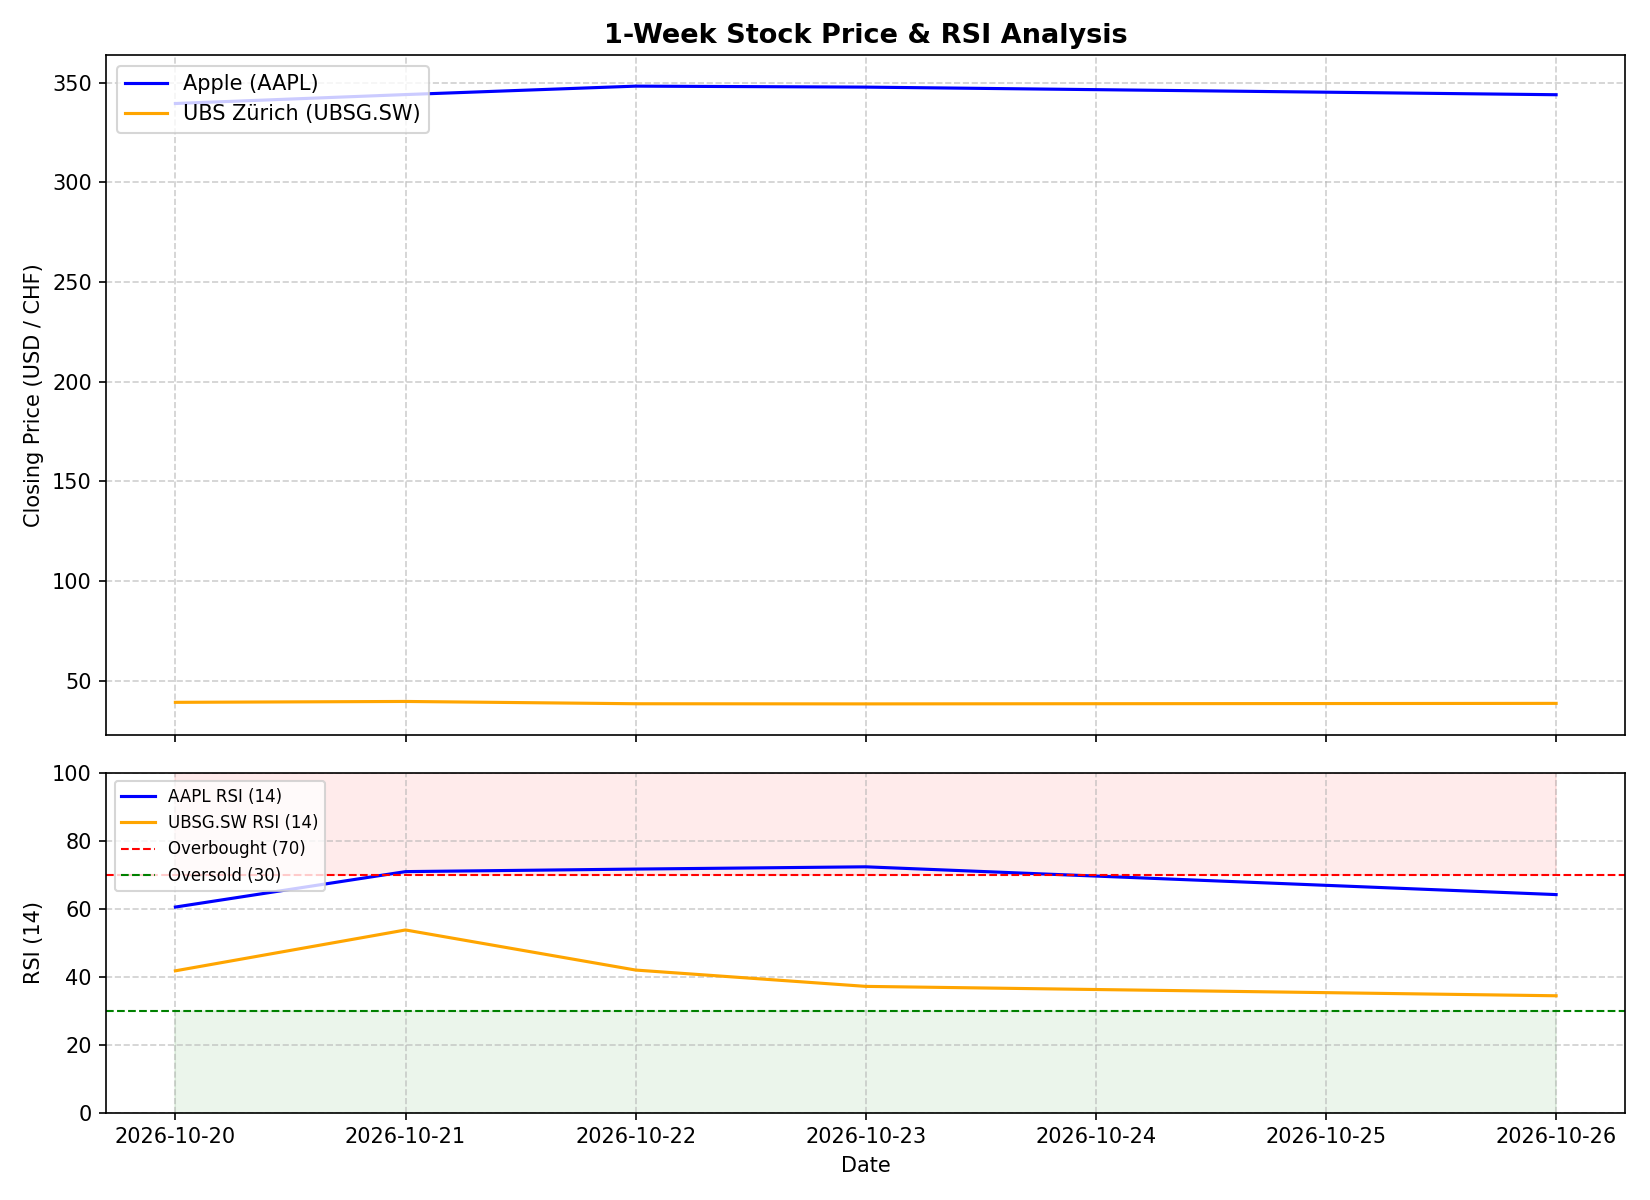
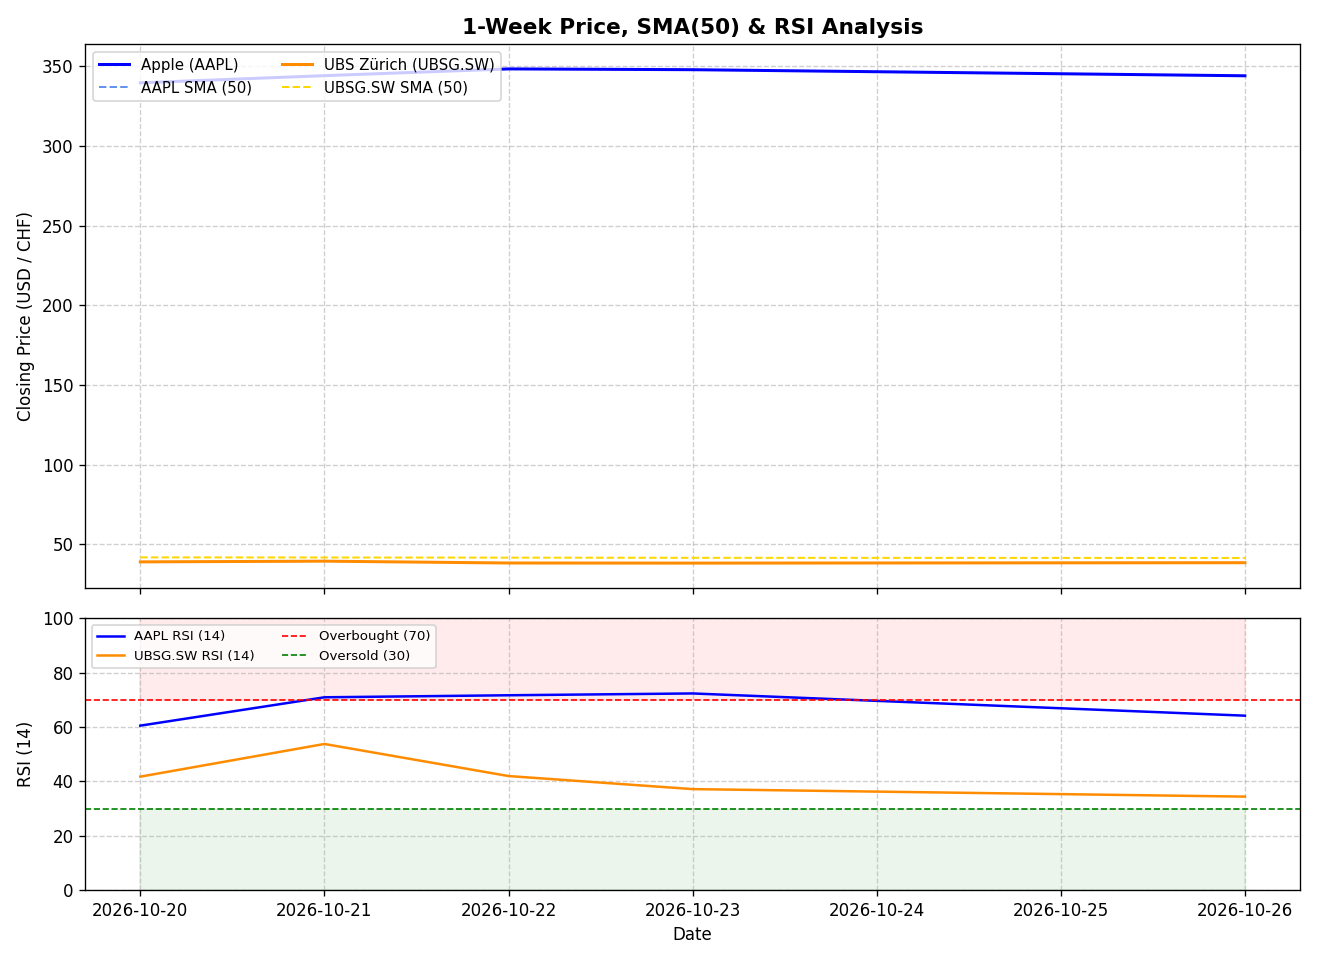
Add SMA(50), Max Drawdown, and fix full 1-year RSI window

diff --git a/main.py b/main.py
@@ -4,10 +4,10 @@ import pandas as pd
 import yfinance as yf
 import matplotlib.pyplot as plt
 
-# 1. Fetch stock data
+# 1. Fetch 2 years of stock data (so 1-year charts have full 200-day SMA & RSI from day 1)
 tickers = ["UBSG.SW", "AAPL"]
 print("Downloading financial data from Yahoo Finance...")
-data = yf.download(tickers, period="1y", interval="1d")['Close']
+data = yf.download(tickers, period="2y", interval="1d")['Close']
 
 # 2. Save raw prices to SQLite database
 conn = sqlite3.connect("stock_data.db")
@@ -20,49 +20,77 @@ df = pd.read_sql("SELECT * FROM stock_prices", conn, parse_dates=["Date"])
 conn.close()
 df.set_index("Date", inplace=True)
 
-# 4. Calculate 14-Day RSI (Relative Strength Index)
+# 4. Calculate Quantitative Metrics (RSI, SMA 50, SMA 200, Volatility, Max Drawdown)
 def calculate_rsi(series, period=14):
     delta = series.diff()
     gain = delta.where(delta > 0, 0.0)
     loss = -delta.where(delta < 0, 0.0)
-    
     avg_gain = gain.rolling(window=period, min_periods=period).mean()
     avg_loss = loss.rolling(window=period, min_periods=period).mean()
-    
     rs = avg_gain / avg_loss
-    rsi = 100.0 - (100.0 / (1.0 + rs))
-    return rsi
+    return 100.0 - (100.0 / (1.0 + rs))
+
+def calculate_max_drawdown(series):
+    rolling_max = series.cummax()
+    drawdown = (series - rolling_max) / rolling_max * 100.0
+    return drawdown.min()
 
 rsi_df = pd.DataFrame(index=df.index)
+sma50_df = pd.DataFrame(index=df.index)
+sma200_df = pd.DataFrame(index=df.index)
+
 for ticker in tickers:
     rsi_df[ticker] = calculate_rsi(df[ticker])
+    sma50_df[ticker] = df[ticker].rolling(window=50).mean()
+    sma200_df[ticker] = df[ticker].rolling(window=200).mean()
 
-# Save RSI values to SQLite database
+# Filter last 1 year (252 trading days) for analysis and reporting
+df_1y = df.tail(252)
+rsi_1y = rsi_df.tail(252)
+sma50_1y = sma50_df.tail(252)
+
+# Calculate Risk Metrics over the last 1 year
+returns_1y = df_1y.pct_change().dropna() * 100
+volatility = returns_1y.std() * (252 ** 0.5)
+max_dd = {ticker: calculate_max_drawdown(df_1y[ticker]) for ticker in tickers}
+
+risk_summary = pd.DataFrame({
+    "Annualized Volatility (%)": volatility,
+    "Max Drawdown (%)": pd.Series(max_dd),
+    "Latest RSI (14)": rsi_1y.iloc[-1]
+})
+
+print("\n=== QUANTITATIVE RISK & MOMENTUM SUMMARY (1-YEAR) ===")
+print(risk_summary.round(2))
+
+# Save RSI and Risk Summary to SQLite database
 conn = sqlite3.connect("stock_data.db")
-rsi_df.to_sql("stock_rsi", conn, if_exists="replace", index=True)
+rsi_1y.to_sql("stock_rsi", conn, if_exists="replace", index=True)
+risk_summary.to_sql("risk_metrics", conn, if_exists="replace", index=True)
 conn.close()
-
-print("\n--- Latest 14-Day RSI Values (30=Oversold, 70=Overbought) ---")
-print(rsi_df.tail(5))
 
 # 5. Create 'charts' directory
 os.makedirs("charts", exist_ok=True)
 
-# 6. Generate Two-Panel Charts (Top: Price, Bottom: RSI)
-def generate_chart(price_sub, rsi_sub, filename, title_text):
+# 6. Generate Two-Panel Charts (Top: Price + SMA50, Bottom: RSI)
+def generate_chart(price_sub, sma50_sub, rsi_sub, filename, title_text):
     fig, (ax1, ax2) = plt.subplots(2, 1, figsize=(11, 8), sharex=True, gridspec_kw={'height_ratios': [2, 1]})
     
-    # Top Panel: Stock Prices
-    ax1.plot(price_sub.index, price_sub["AAPL"], label="Apple (AAPL)", color="blue")
-    ax1.plot(price_sub.index, price_sub["UBSG.SW"], label="UBS Zürich (UBSG.SW)", color="orange")
+    # Top Panel: Stock Prices & 50-Day SMA
+    ax1.plot(price_sub.index, price_sub["AAPL"], label="Apple (AAPL)", color="blue", linewidth=1.8)
+    ax1.plot(sma50_sub.index, sma50_sub["AAPL"], label="AAPL SMA (50)", color="cornflowerblue", linestyle="--", linewidth=1.2)
+    
+    ax1.plot(price_sub.index, price_sub["UBSG.SW"], label="UBS Zürich (UBSG.SW)", color="darkorange", linewidth=1.8)
+    ax1.plot(sma50_sub.index, sma50_sub["UBSG.SW"], label="UBSG.SW SMA (50)", color="gold", linestyle="--", linewidth=1.2)
+    
     ax1.set_title(title_text, fontsize=13, fontweight="bold")
     ax1.set_ylabel("Closing Price (USD / CHF)")
-    ax1.legend(loc="upper left")
+    ax1.legend(loc="upper left", fontsize=9, ncol=2)
     ax1.grid(True, linestyle="--", alpha=0.6)
     
     # Bottom Panel: RSI Indicator
-    ax2.plot(rsi_sub.index, rsi_sub["AAPL"], label="AAPL RSI (14)", color="blue", linestyle="-")
-    ax2.plot(rsi_sub.index, rsi_sub["UBSG.SW"], label="UBSG.SW RSI (14)", color="orange", linestyle="-")
+    ax2.plot(rsi_sub.index, rsi_sub["AAPL"], label="AAPL RSI (14)", color="blue", linewidth=1.5)
+    ax2.plot(rsi_sub.index, rsi_sub["UBSG.SW"], label="UBSG.SW RSI (14)", color="darkorange", linewidth=1.5)
     ax2.axhline(70, color="red", linestyle="--", linewidth=1, label="Overbought (70)")
     ax2.axhline(30, color="green", linestyle="--", linewidth=1, label="Oversold (30)")
     ax2.fill_between(rsi_sub.index, 70, 100, color="red", alpha=0.08)
@@ -70,24 +98,24 @@ def generate_chart(price_sub, rsi_sub, filename, title_text):
     ax2.set_ylim(0, 100)
     ax2.set_ylabel("RSI (14)")
     ax2.set_xlabel("Date")
-    ax2.legend(loc="upper left", fontsize=8)
+    ax2.legend(loc="upper left", fontsize=8, ncol=2)
     ax2.grid(True, linestyle="--", alpha=0.6)
     
     plt.tight_layout()
     filepath = os.path.join("charts", filename)
-    plt.savefig(filepath, dpi=150)
+    plt.savefig(filepath, dpi=120)
     plt.close()
 
-# Define timeframes using trading days (5d = 1W, 21d = 1M, 126d = 6M)
+# Define timeframes (5d = 1W, 21d = 1M, 126d = 6M, 252d = 1Y)
 periods = {
-    "chart_1week.png": (df.tail(5), rsi_df.tail(5), "1-Week Stock Price & RSI Analysis"),
-    "chart_1month.png": (df.tail(21), rsi_df.tail(21), "1-Month Stock Price & RSI Analysis"),
-    "chart_6months.png": (df.tail(126), rsi_df.tail(126), "6-Month Stock Price & RSI Analysis"),
-    "chart_1year.png": (df, rsi_df, "1-Year Stock Price & RSI Analysis")
+    "chart_1week.png": (df_1y.tail(5), sma50_1y.tail(5), rsi_1y.tail(5), "1-Week Price, SMA(50) & RSI Analysis"),
+    "chart_1month.png": (df_1y.tail(21), sma50_1y.tail(21), rsi_1y.tail(21), "1-Month Price, SMA(50) & RSI Analysis"),
+    "chart_6months.png": (df_1y.tail(126), sma50_1y.tail(126), rsi_1y.tail(126), "6-Month Price, SMA(50) & RSI Analysis"),
+    "chart_1year.png": (df_1y, sma50_1y, rsi_1y, "1-Year Price, SMA(50) & RSI Analysis")
 }
 
-for filename, (p_sub, r_sub, title) in periods.items():
-    generate_chart(p_sub, r_sub, filename, title)
+for filename, (p_sub, s_sub, r_sub, title) in periods.items():
+    generate_chart(p_sub, s_sub, r_sub, filename, title)
     print(f"Successfully generated: charts/{filename}")
 
-print("\nAll price and RSI charts updated successfully!")
+print("\nAll quantitative metrics and charts updated successfully!")
